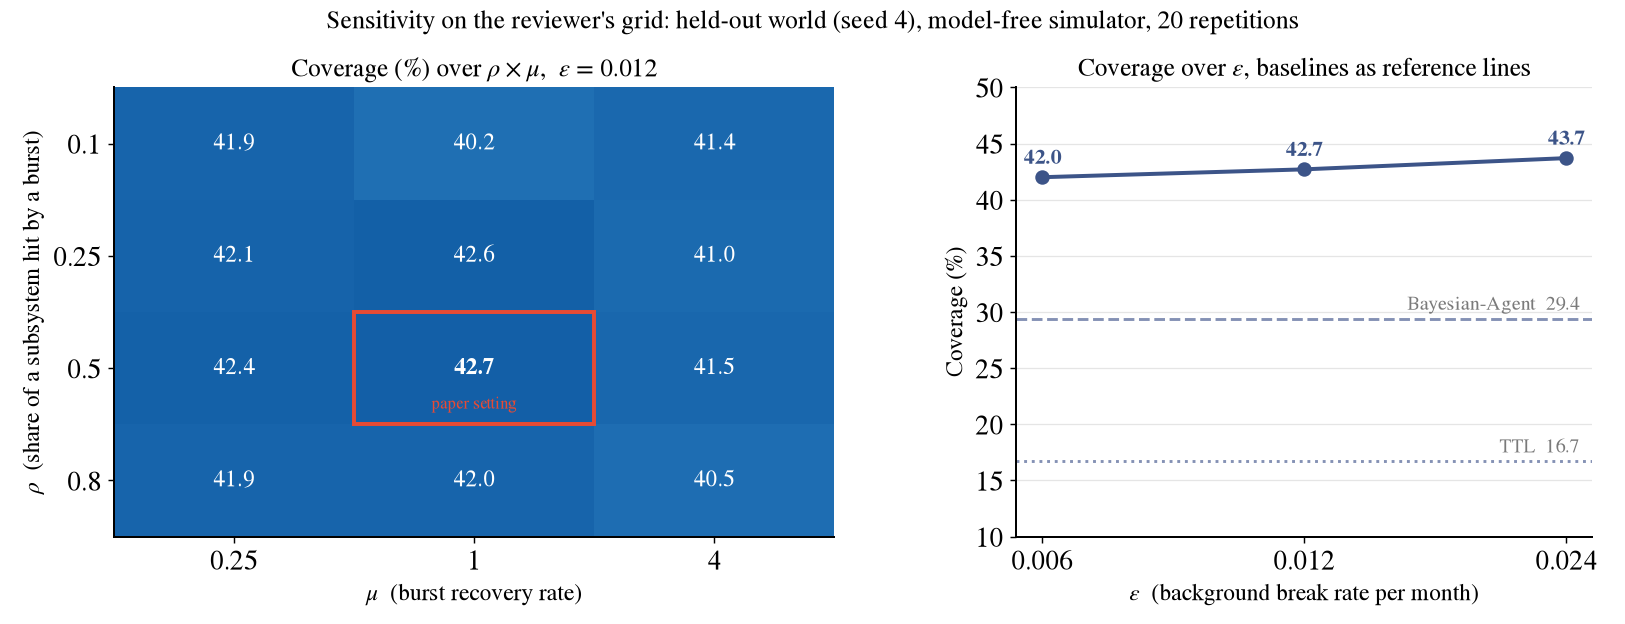
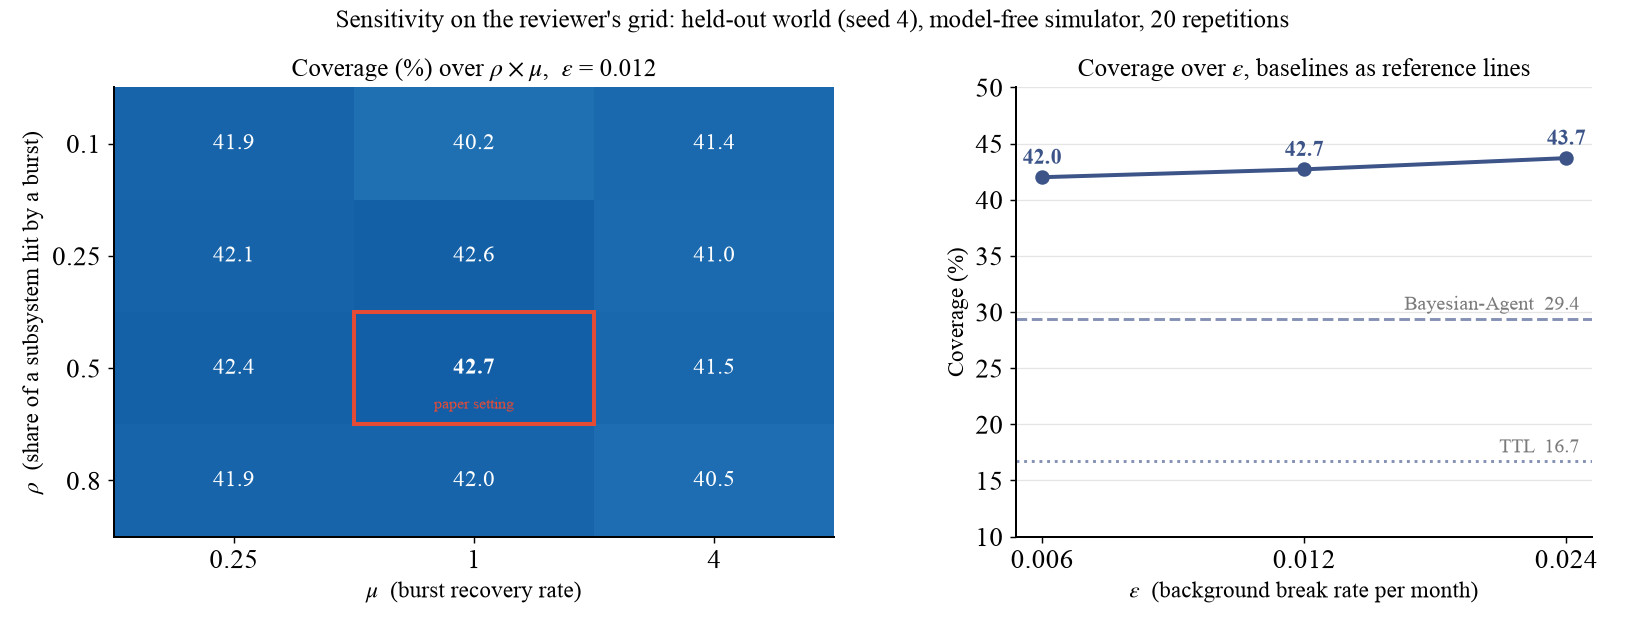
TvTY figures: clean title / legend / panel layout, Times New Roman, p-value brackets

diff --git a/rebuttal/TvTY_W2_paired_tests/paired_rebuttal.py b/rebuttal/TvTY_W2_paired_tests/paired_rebuttal.py
@@ -153,34 +153,38 @@ try:
 except ImportError:
     print("matplotlib / pillow not available, GIF skipped"); sys.exit(0)
 
-if len(CORPORA) < 2:
-    print("GIF needs both corpora; the committed w2_paired_tests.gif was drawn from the full tables"); sys.exit(0)
+if len(CORPORA) < 2:   # only AcmeSDK result files here: draw from the full pooled table committed next to this script
+    pooled = list(csv.reader(open(f"{HERE}/paired_pooled.csv", encoding="utf-8")))
 GROW, HOLD, W = 20, 32, 0.19
-fig, axes = plt.subplots(1, 2, figsize=(13, 5.6), facecolor="white", gridspec_kw={"width_ratios": [1, 1]})
-fig.subplots_adjust(left=0.065, right=0.99, top=0.80, bottom=0.12, wspace=0.14)
+fig, axes = plt.subplots(1, 2, figsize=(13, 6.2), facecolor="white", gridspec_kw={"width_ratios": [1, 1]})
+fig.subplots_adjust(left=0.075, right=0.99, top=0.755, bottom=0.09, wspace=0.16)
 ease = lambda x: 1 - (1 - max(0.0, min(1.0, x))) ** 3
 POOL = {(r[0], r[1]): (int(r[2]), int(r[3]), float(r[4])) for r in pooled[1:]}
 
 
 def draw(i):
     f = ease(i / GROW)
-    for ax, name, ymax in ((axes[0], "AcmeSDK", 560), (axes[1], "MaskedMig", 145)):
+    for ax, name, ymax in ((axes[0], "AcmeSDK", 600), (axes[1], "MaskedMig", 155)):
         ax.clear(); ax.set_ylim(0, ymax); ax.set_xlim(-0.6, len(BASES) - 0.4)
-        ax.set_xticks(range(len(BASES)), [f"vs {b}" for _, b in BASES], fontsize=13)
-        ax.tick_params(axis="y", labelsize=12); ax.yaxis.grid(True, color="#e5e5e5", lw=0.7); ax.set_axisbelow(True)
-        ax.set_title(f"{name}, budget 24, three seeds and three model sizes pooled", fontsize=13.5, pad=8)
+        ax.set_xticks(range(len(BASES)), [f"vs. {b}" for _, b in BASES], fontsize=16)
+        ax.tick_params(axis="y", labelsize=14); ax.yaxis.grid(True, color="#e5e5e5", lw=0.7); ax.set_axisbelow(True)
+        ax.set_title(f"{name}, budget 24", fontsize=16, pad=10)
         for g, (_, b) in enumerate(BASES):
             Wn, Ln, p = POOL[name, b]
             ax.bar(g - W / 2 - 0.01, Wn * f, W, color=NAVY, label="exams only Bayesian-Harness passes" if g == 0 else None)
             ax.bar(g + W / 2 + 0.01, Ln * f, W, color=GRAY2, label="exams only the baseline passes" if g == 0 else None)
             if f >= 0.999:
-                ax.text(g - W / 2 - 0.01, Wn + ymax * 0.012, str(Wn), ha="center", fontsize=12, color=NAVY, fontweight="bold")
-                ax.text(g + W / 2 + 0.01, Ln + ymax * 0.012, str(Ln), ha="center", fontsize=12, color=MUTE)
-                ax.text(g, max(Wn, Ln) + ymax * 0.075, fmt_p(p), ha="center", fontsize=12, color=BRICK, fontweight="bold")
-    axes[0].set_ylabel("Discordant exams (count)", fontsize=13)
-    axes[0].legend(loc="upper left", ncol=2, frameon=False, fontsize=12, bbox_to_anchor=(-0.02, 1.22))
-    fig.suptitle("Paired McNemar tests: Bayesian-Harness vs. TTL and Bayesian-Agent, exact two-sided p",
-                 fontsize=14.5, y=0.985)
+                ax.text(g - W / 2 - 0.01, Wn + ymax * 0.012, str(Wn), ha="center", fontsize=13, color=NAVY, fontweight="bold")
+                ax.text(g + W / 2 + 0.01, Ln + ymax * 0.012, str(Ln), ha="center", fontsize=13, color=MUTE)
+                top = max(Wn, Ln) + ymax * 0.08
+                x0, x1 = g - W / 2 - 0.01, g + W / 2 + 0.01
+                ax.plot([x0, x0, x1, x1], [top - ymax * 0.02, top, top, top - ymax * 0.02], color=INK, lw=1.0)
+                ax.text(g, top + ymax * 0.015, fmt_p(p), ha="center", fontsize=13.5, color=BRICK, fontweight="bold")
+    axes[0].set_ylabel("Discordant exams (count)", fontsize=16)
+    fig.legends.clear()
+    fig.legend(*axes[0].get_legend_handles_labels(), loc="upper center", ncol=2, frameon=False, fontsize=14,
+               bbox_to_anchor=(0.5, 0.915), handlelength=1.4, columnspacing=2.0)
+    fig.suptitle("Paired McNemar tests, 3 seeds and 3 model sizes pooled (exact two-sided p)", fontsize=17, y=0.975)
     return []
 
 

diff --git a/rebuttal/TvTY_W1_release_signal/make_figures.py b/rebuttal/TvTY_W1_release_signal/make_figures.py
@@ -67,27 +67,27 @@ with open(f"{HERE}/release_flagged.csv", "w", newline="") as f:
 
 # ---- GIF: the release-aware baseline next to the paper's rows ---------------------------------
 ORDER = [("Bayesian-Agent", GRAY1, ""), ("TTL", GRAY2, ""), ("Bayesian-Harness (ours)", NAVY, ""),
-         ("Oracle release-aware (new)", BRICK, "//"), ("Oracle (paper)", "#d9d9d9", "..")]
+         ("Release-aware oracle (new)", BRICK, "//"), ("Oracle (paper)", "#cfcfcf", "")]
 GROW, HOLD, W = 22, 30, 0.16
-fig, axes = plt.subplots(1, 2, figsize=(13, 5.6), facecolor="white")
-fig.subplots_adjust(left=0.06, right=0.99, top=0.80, bottom=0.09, wspace=0.12)
+fig, axes = plt.subplots(1, 2, figsize=(13, 6.2), facecolor="white")
+fig.subplots_adjust(left=0.065, right=0.99, top=0.755, bottom=0.08, wspace=0.14)
 ease = lambda x: 1 - (1 - max(0.0, min(1.0, x))) ** 3
 
 
 def values(corpus, key):
-    if key.startswith("Oracle release"):
+    if key.startswith("Release-aware"):
         return [NEW[corpus][t] for t, _ in MODELS]
     return PAPER[corpus][key.replace(" (paper)", "")]
 
 
 def draw(i):
     f = ease(i / GROW)
-    for ax, (corpus, title, ymax) in zip(axes, (("maskedmig", "MaskedMig, budget 24 (real API migrations)", 62),
-                                                ("acmesdk", "AcmeSDK, budget 24 (synthetic SDK)", 95))):
+    for ax, (corpus, title, ymax) in zip(axes, (("maskedmig", "MaskedMig (real API migrations), budget 24", 62),
+                                                ("acmesdk", "AcmeSDK (synthetic SDK), budget 24", 95))):
         ax.clear(); ax.set_ylim(0, ymax); ax.set_xlim(-0.5, 2.5)
-        ax.set_xticks(range(3), [m for _, m in MODELS], fontsize=14); ax.tick_params(axis="y", labelsize=12)
+        ax.set_xticks(range(3), [m for _, m in MODELS], fontsize=16); ax.tick_params(axis="y", labelsize=14)
         ax.yaxis.grid(True, color="#e5e5e5", lw=0.7); ax.set_axisbelow(True)
-        ax.set_title(title, fontsize=14, pad=8)
+        ax.set_title(title, fontsize=16, pad=10)
         for k, (key, col, hatch) in enumerate(ORDER):
             xs = [j + (k - 2) * W for j in range(3)]
             mu = [v[0] for v in values(corpus, key)]; sd = [v[1] for v in values(corpus, key)]
@@ -96,14 +96,15 @@ def draw(i):
             if f >= 0.999:
                 ax.errorbar(xs, mu, yerr=sd, fmt="none", ecolor="#222222", elinewidth=1.0, capsize=3)
                 for x, m in zip(xs, mu):
-                    if key.startswith("Oracle release") or key.startswith("Bayesian-Harness"):
-                        ax.text(x, m + (sd[xs.index(x)] if sd else 0) + 1.2, f"{m:.1f}", ha="center", fontsize=10,
-                                color=col if key.startswith("Oracle release") else NAVY, fontweight="bold")
-    axes[0].set_ylabel("Exam success (%), mean $\\pm$ s.d. over 3 seeds", fontsize=13)
-    axes[0].legend(loc="upper left", ncol=5, frameon=False, fontsize=12, bbox_to_anchor=(-0.02, 1.26),
-                   handlelength=1.3, columnspacing=1.1)
-    fig.suptitle("Bayesian-Harness (no release signal) next to oracles that read the version / changelog signal for free",
-                 fontsize=15, y=0.985)
+                    if key.startswith("Release-aware") or key.startswith("Bayesian-Harness"):
+                        ax.text(x, m + (sd[xs.index(x)] if sd else 0) + 1.2, f"{m:.1f}", ha="center", fontsize=11.5,
+                                color=col, fontweight="bold")
+    axes[0].set_ylabel("Exam success (%)", fontsize=16)
+    fig.legends.clear()
+    fig.legend(*axes[0].get_legend_handles_labels(), loc="upper center", ncol=5, frameon=False, fontsize=14,
+               bbox_to_anchor=(0.5, 0.915), handlelength=1.4, columnspacing=1.6)
+    fig.suptitle("Bayesian-Harness without any release signal vs. oracles that read it for free (mean $\\pm$ s.d., 3 seeds)",
+                 fontsize=17, y=0.975)
     return []
 
 

diff --git a/rebuttal/TvTY_W1_release_signal/style.py b/rebuttal/TvTY_W1_release_signal/style.py
@@ -4,7 +4,7 @@ import matplotlib
 from matplotlib import font_manager
 
 HERE = os.path.dirname(os.path.abspath(__file__))
-for f in glob.glob(os.path.join(HERE, "fonts", "*.ttf")):     # optional: LiberationSerif-*.ttf (Times metrics)
+for f in glob.glob(os.path.join(HERE, "fonts", "*.[tT][tT][fF]")):     # optional: LiberationSerif-*.ttf (Times metrics)
     font_manager.fontManager.addfont(f)
 matplotlib.rcParams.update({"font.family": "serif",
                             "font.serif": ["Times New Roman", "Liberation Serif", "STIXGeneral", "DejaVu Serif"],

diff --git a/rebuttal/TvTY_W2_paired_tests/style.py b/rebuttal/TvTY_W2_paired_tests/style.py
@@ -4,7 +4,7 @@ import matplotlib
 from matplotlib import font_manager
 
 HERE = os.path.dirname(os.path.abspath(__file__))
-for f in glob.glob(os.path.join(HERE, "fonts", "*.ttf")):     # optional: LiberationSerif-*.ttf (Times metrics)
+for f in glob.glob(os.path.join(HERE, "fonts", "*.[tT][tT][fF]")):     # optional: LiberationSerif-*.ttf (Times metrics)
     font_manager.fontManager.addfont(f)
 matplotlib.rcParams.update({"font.family": "serif",
                             "font.serif": ["Times New Roman", "Liberation Serif", "STIXGeneral", "DejaVu Serif"],
